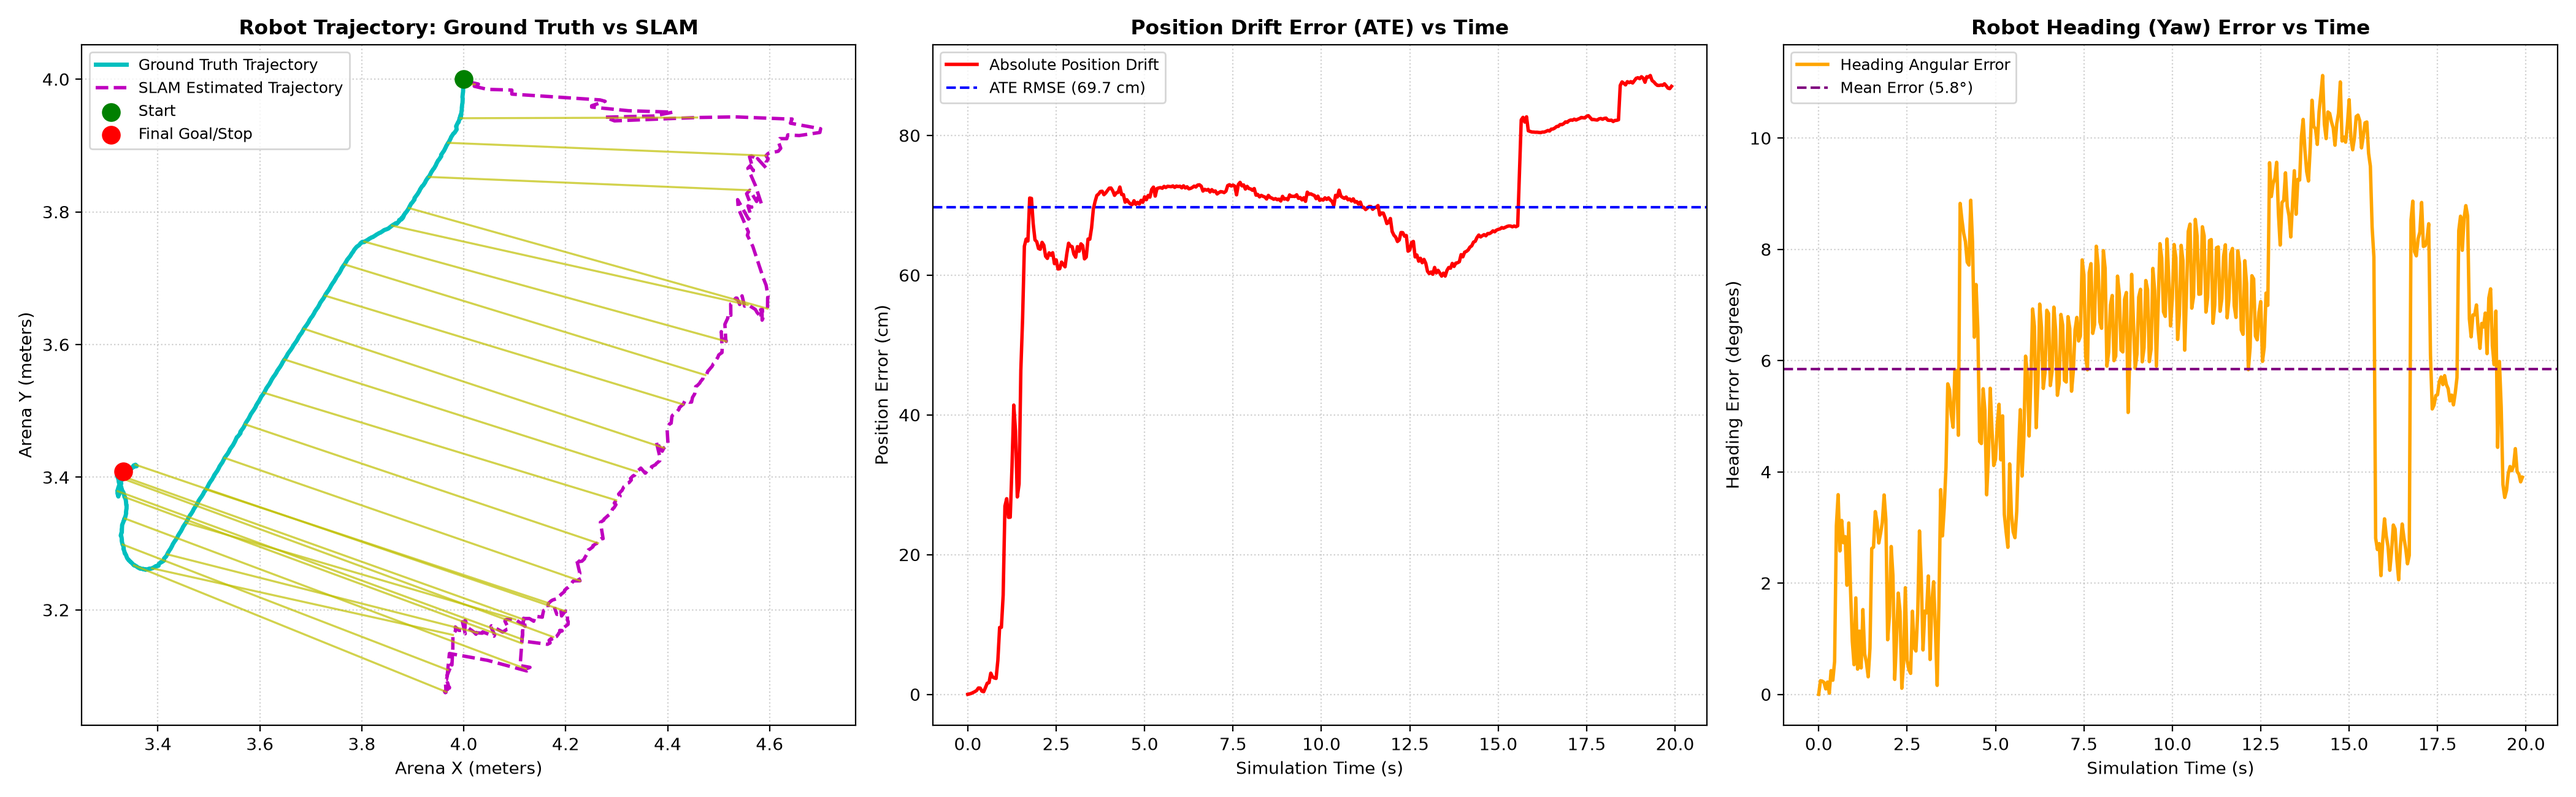
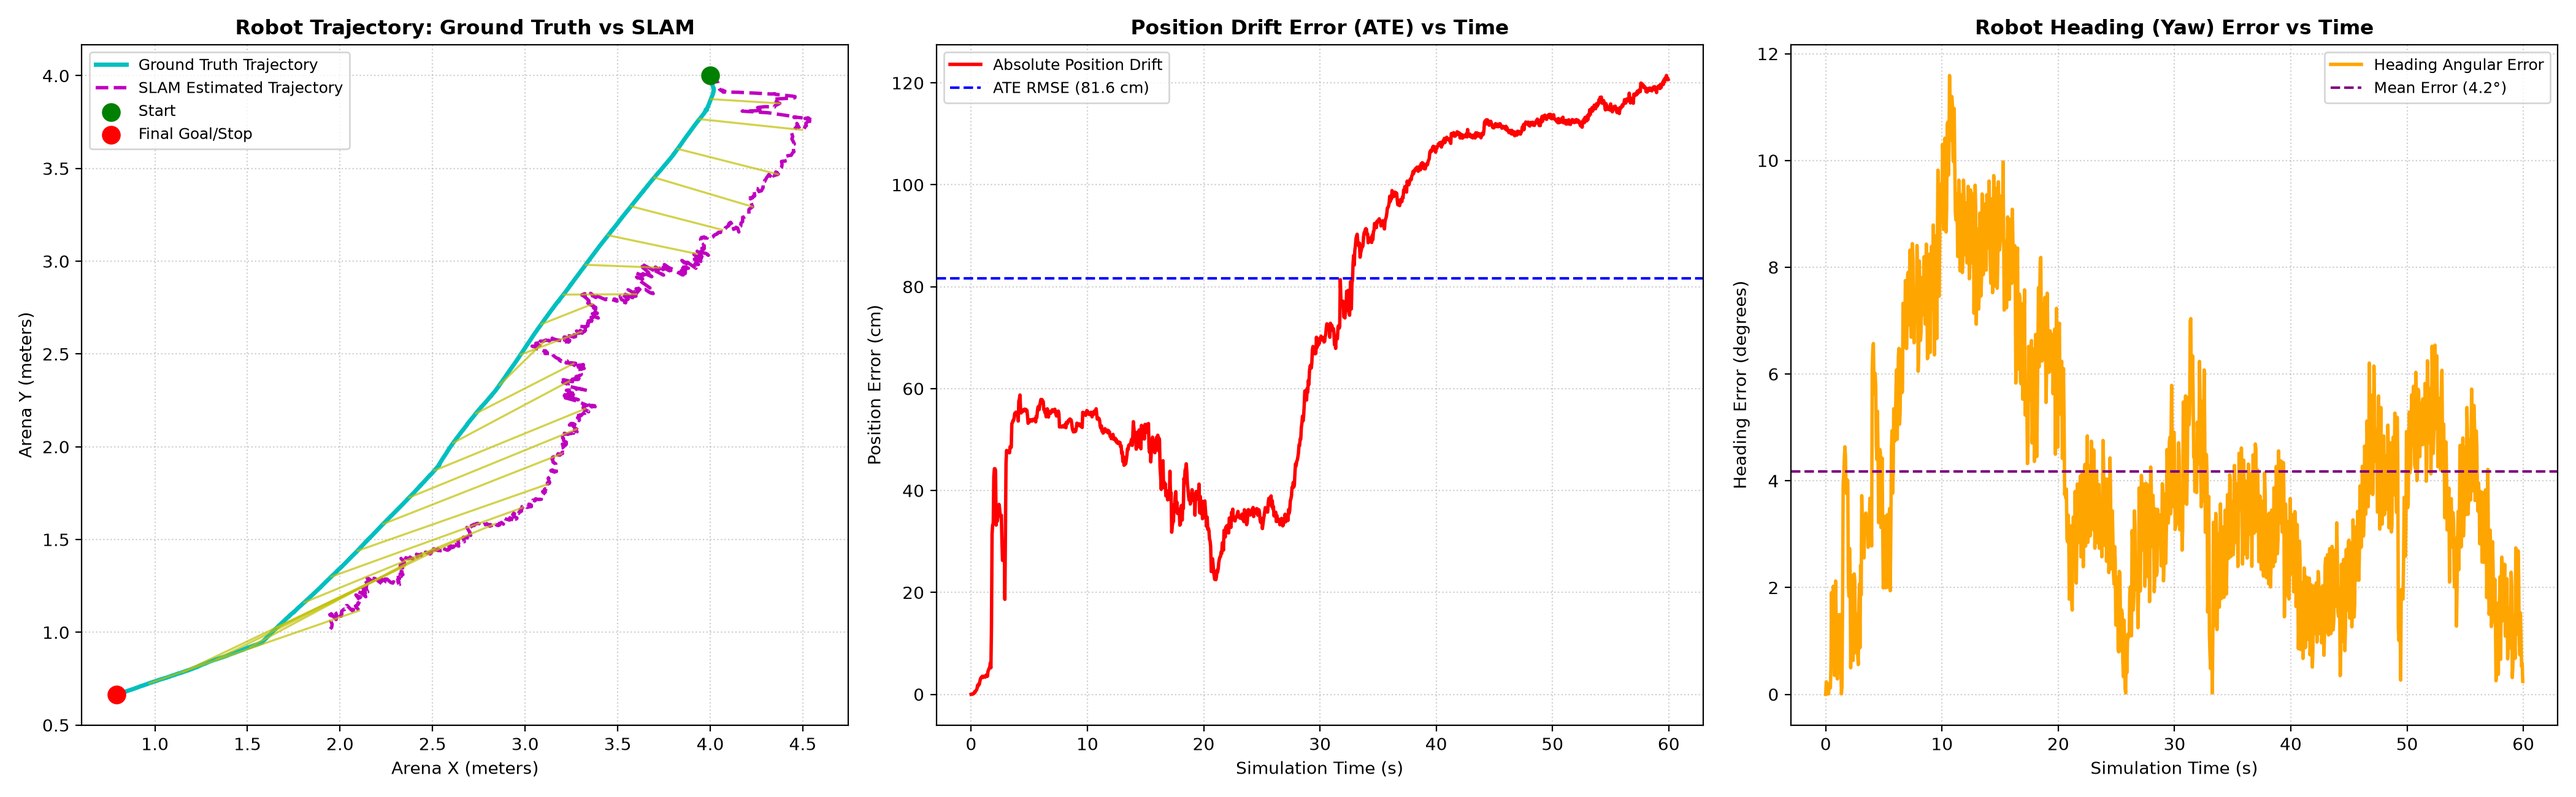
fix(navigation): adaptive room core separation, doorway penetration vector, and live agent telemetry

diff --git a/agents/frontier_agent.py b/agents/frontier_agent.py
@@ -91,10 +91,11 @@ class FrontierAgent(BaseAgent):
         # Check if committed target was reached
         if self.committed_target is not None:
             cwx, cwy = self.grid.grid_to_world(self.committed_target[0], self.committed_target[1])
-            if math.hypot(cwx - rx, cwy - ry) < 0.35:
+            if math.hypot(cwx - rx, cwy - ry) < 0.40:
                 if self.committed_doorway is not None:
                     self.visited_doorways.add(self.committed_doorway)
                     self.committed_doorway = None
+                    print(f"  [FRONTIER] Successfully transited through doorway to ({cwx:.2f}, {cwy:.2f})")
                 else:
                     self.blacklist_frontiers.add(self.committed_target)
                 self.committed_target = None
@@ -105,19 +106,22 @@ class FrontierAgent(BaseAgent):
         if current_detected_room > 0:
             if self.active_room_id <= 0:
                 self.active_room_id = current_detected_room
+                print(f"  [FRONTIER] Initialized in Room {self.active_room_id} -> Starting Intra-Room Sweep")
                 self.bus.publish("mission/event", MissionEventMsg(
                     timestamp=current_time,
                     event_type="ROOM_ENTERED",
                     details={"room_id": self.active_room_id}
                 ))
-            elif current_detected_room != self.active_room_id and self.state in ["INTER_ROOM_TRANSIT", "GLOBAL_EXPLORATION"]:
-                self.explored_rooms.add(self.active_room_id)
+            elif current_detected_room != self.active_room_id and current_detected_room not in self.explored_rooms:
+                if self.active_room_id > 0:
+                    self.explored_rooms.add(self.active_room_id)
                 if self.committed_doorway is not None:
                     self.visited_doorways.add(self.committed_doorway)
                     self.committed_doorway = None
                 self.active_room_id = current_detected_room
                 self.state = "INTRA_ROOM_SWEEP"
                 self.committed_target = None
+                print(f"  [FRONTIER] >>> ENTERED NEW ROOM {self.active_room_id} <<< Commencing INTRA_ROOM_SWEEP!")
                 self.bus.publish("mission/event", MissionEventMsg(
                     timestamp=current_time,
                     event_type="ROOM_ENTERED",
@@ -126,43 +130,53 @@ class FrontierAgent(BaseAgent):
         elif self.active_room_id <= 0:
             self.active_room_id = 1
 
-        # If currently transiting a doorway, maintain commitment until reaching or entering new room
+        # If currently transiting a doorway, maintain commitment until penetrating into the new room
         if self.state == "INTER_ROOM_TRANSIT" and self.committed_target is not None:
             cwx, cwy = self.grid.grid_to_world(self.committed_target[0], self.committed_target[1])
-            if math.hypot(cwx - rx, cwy - ry) >= 0.35:
-                return None
+            if math.hypot(cwx - rx, cwy - ry) >= 0.40:
+                return None  # Unconditionally hold doorway transit trajectory
 
         all_frontiers = self.grid.detect_frontiers()
         if not all_frontiers:
             self.state = "MISSION_COMPLETE"
+            print("  [FRONTIER] All frontiers cleared across entire map! MISSION_COMPLETE.")
             return None
 
-        # 1. Collect valid candidates, respecting blacklist
+        # 1. Collect valid candidates, respecting blacklist and explored rooms
         candidates = []
         for f in all_frontiers:
             gx, gy, area = f
             if (gx, gy) in self.blacklist_frontiers:
                 continue
+            f_room = self._get_room_at(gx, gy, room_labels)
+            if f_room in self.explored_rooms:
+                continue  # Never revisit frontiers in already cleared/explored rooms!
             wx, wy = self.grid.grid_to_world(gx, gy)
             dist = math.hypot(wx - rx, wy - ry)
             candidates.append((f, dist))
 
         if not candidates:
-            # If all frontiers were blacklisted, clear blacklist and re-try
-            if self.blacklist_frontiers:
+            # If all candidates are blacklisted but unvisited doorways exist, proceed to doorway transit
+            doorways = self.latest_grid_msg.doorways if self.latest_grid_msg else []
+            unvisited_doorways = [d for d in doorways if d not in self.visited_doorways]
+            if not unvisited_doorways and self.blacklist_frontiers:
                 self.blacklist_frontiers.clear()
                 for f in all_frontiers:
+                    f_room = self._get_room_at(f[0], f[1], room_labels)
+                    if f_room in self.explored_rooms:
+                        continue
                     wx, wy = self.grid.grid_to_world(f[0], f[1])
                     dist = math.hypot(wx - rx, wy - ry)
                     candidates.append((f, dist))
-            if not candidates:
+            if not candidates and not unvisited_doorways:
                 self.state = "MISSION_COMPLETE"
+                print("  [FRONTIER] All rooms and frontiers explored. MISSION_COMPLETE.")
                 return None
 
         # Filter by min_dist (prefer frontiers > min_dist, but fall back to closer if none exist)
         dist_candidates = [c for c in candidates if c[1] >= self.min_dist]
         if not dist_candidates:
-            dist_candidates = candidates  # Use all available candidates
+            dist_candidates = candidates
 
         # Classify into active room vs other rooms
         room_frontiers = []
@@ -171,14 +185,17 @@ class FrontierAgent(BaseAgent):
             gx, gy, area = f
             f_room = self._get_room_at(gx, gy, room_labels)
 
-            if self.active_room_id > 0 and f_room == self.active_room_id:
+            if f_room in self.explored_rooms:
+                continue
+
+            if self.active_room_id > 0 and self.active_room_id not in self.explored_rooms and f_room == self.active_room_id:
                 room_frontiers.append((f, dist))
             else:
                 other_frontiers.append((f, dist))
 
         # Decision Logic:
         # Case A: Current room still has unexplored frontiers -> Clear it!
-        if room_frontiers:
+        if room_frontiers and self.active_room_id not in self.explored_rooms:
             self.state = "INTRA_ROOM_SWEEP"
             target_frontier = self._score_frontiers(room_frontiers, rx, ry, r_yaw)
             gx, gy, area = target_frontier
@@ -196,6 +213,7 @@ class FrontierAgent(BaseAgent):
                 area=area,
                 is_doorway=False
             )
+            print(f"  [FRONTIER] [INTRA_ROOM_SWEEP] Target: ({wx:.2f}, {wy:.2f}) [Room {self.active_room_id}] | Dist: {math.hypot(wx-rx, wy-ry):.2f}m")
             self.bus.publish("frontier/target", target_msg)
             return target_msg
 
@@ -209,23 +227,36 @@ class FrontierAgent(BaseAgent):
             dw_target = unvisited_doorways[0]
             self.committed_doorway = dw_target
             
-            if self.active_room_id > 0:
+            if self.active_room_id > 0 and self.active_room_id not in self.explored_rooms:
                 self.explored_rooms.add(self.active_room_id)
+                print(f"  [FRONTIER] ★ Room {self.active_room_id} 100% EXPLORED! Marked closed. Gating transit to next room...")
                 self.bus.publish("mission/event", MissionEventMsg(
                     timestamp=current_time,
                     event_type="ROOM_COMPLETED",
                     details={"room_id": self.active_room_id}
                 ))
 
-            dgx, dgy = self.grid.world_to_grid(dw_target[0], dw_target[1])
+            # Compute doorway penetration vector: step 70cm through the doorway into the next room
+            dx = dw_target[0] - rx
+            dy = dw_target[1] - ry
+            d_norm = math.hypot(dx, dy)
+            if d_norm > 0.1:
+                ux, uy = dx / d_norm, dy / d_norm
+                target_wx = dw_target[0] + ux * 0.70
+                target_wy = dw_target[1] + uy * 0.70
+            else:
+                target_wx, target_wy = dw_target[0], dw_target[1]
+
+            dgx, dgy = self.grid.world_to_grid(target_wx, target_wy)
             self.committed_target = (dgx, dgy)
             self.commitment_time = current_time
+            print(f"  [FRONTIER] [INTER_ROOM_TRANSIT] Heading to Doorway ({dw_target[0]:.2f}, {dw_target[1]:.2f}) -> Target inside next room: ({target_wx:.2f}, {target_wy:.2f})")
             target_msg = FrontierTargetMsg(
                 timestamp=current_time,
                 target_gx=dgx,
                 target_gy=dgy,
-                target_wx=dw_target[0],
-                target_wy=dw_target[1],
+                target_wx=target_wx,
+                target_wy=target_wy,
                 room_id=-1,
                 area=50,
                 is_doorway=True
@@ -233,7 +264,7 @@ class FrontierAgent(BaseAgent):
             self.bus.publish("frontier/target", target_msg)
             return target_msg
 
-        # Case C: Global exploration if other frontiers exist
+        # Case C: Global exploration into other frontiers
         if other_frontiers:
             self.state = "GLOBAL_EXPLORATION"
             target_frontier = self._score_frontiers(other_frontiers, rx, ry, r_yaw)
@@ -242,16 +273,18 @@ class FrontierAgent(BaseAgent):
             self.commitment_time = current_time
             wx, wy = self.grid.grid_to_world(gx, gy)
             
+            f_room = self._get_room_at(gx, gy, room_labels)
             target_msg = FrontierTargetMsg(
                 timestamp=current_time,
                 target_gx=gx,
                 target_gy=gy,
                 target_wx=wx,
                 target_wy=wy,
-                room_id=-1,
+                room_id=f_room,
                 area=area,
                 is_doorway=False
             )
+            print(f"  [FRONTIER] [GLOBAL_EXPLORATION] Target: ({wx:.2f}, {wy:.2f}) [Room {f_room}] | Dist: {math.hypot(wx-rx, wy-ry):.2f}m")
             self.bus.publish("frontier/target", target_msg)
             return target_msg
 

diff --git a/agents/mapping_agent.py b/agents/mapping_agent.py
@@ -53,19 +53,26 @@ class MappingAgent(BaseAgent):
         if max_val < 4:  # At least 20cm clearance
             return np.zeros_like(free_mask, dtype=np.int32), []
 
-        # 2. Threshold to get reliable room core regions
-        thresh = 0.45 * max_val
-        sure_fg = (dist_transform >= thresh).astype(np.uint8)
-
-        # 3. Label room marker components and track centroids persistently across updates
-        num_markers, markers, stats, cents = cv2.connectedComponentsWithStats(sure_fg)
-        
+        # 2. Adaptive multi-scale distance transform thresholding to separate distinct room cores
         valid_components = []
-        for i in range(1, num_markers):
-            if stats[i, cv2.CC_STAT_AREA] >= 10:
-                gx, gy = cents[i][0], cents[i][1]
-                wx, wy = self.grid.grid_to_world(int(round(gx)), int(round(gy)))
-                valid_components.append((i, (wx, wy)))
+        markers = np.zeros_like(free_mask, dtype=np.int32)
+        for t_ratio in [0.65, 0.60, 0.56, 0.50, 0.45, 0.40]:
+            thresh = t_ratio * max_val
+            sure_fg = (dist_transform >= thresh).astype(np.uint8)
+            num_markers, cur_markers, stats, cents = cv2.connectedComponentsWithStats(sure_fg)
+            comps = []
+            for i in range(1, num_markers):
+                if stats[i, cv2.CC_STAT_AREA] >= 12:
+                    gx, gy = cents[i][0], cents[i][1]
+                    wx, wy = self.grid.grid_to_world(int(round(gx)), int(round(gy)))
+                    comps.append((i, (wx, wy)))
+            if len(comps) >= 2:
+                valid_components = comps
+                markers = cur_markers
+                break
+            elif len(comps) == 1 and not valid_components:
+                valid_components = comps
+                markers = cur_markers
 
         num_rooms = len(valid_components)
         if num_rooms <= 1:

diff --git a/agents/locomotion_agent.py b/agents/locomotion_agent.py
@@ -117,6 +117,9 @@ class LocomotionAgent(BaseAgent):
                 if avoidance_yaw != 0.0:
                     self.speed = 0.35
                     self.state_str = "AVOID"
+                    if (current_time - getattr(self, 'last_avoid_log_time', 0.0)) > 2.5:
+                        self.last_avoid_log_time = current_time
+                        print(f"  [LOCOMOTION] Proximity safety envelope: Repelling from obstacle cluster (steer bias: {avoidance_yaw:+.2f} rad)")
                 elif abs_err > 0.45:
                     self.speed = 0.45  # Continuous turn-while-walking
                     self.state_str = "TURN"
@@ -138,6 +141,7 @@ class LocomotionAgent(BaseAgent):
                     self.last_stuck_check_time = current_time
 
                 if self.stuck_ticks >= 2:  # Stuck for ~2 seconds
+                    print(f"  [LOCOMOTION] Watchdog detected obstacle stall at ({rx:.2f}, {ry:.2f}) -> Executing reverse recovery step")
                     self.recovery_countdown = 16  # 16 steps (0.8s) of reverse recovery
                     self.stuck_ticks = 0
                     self.waypoints = []

diff --git a/agents/planning_agent.py b/agents/planning_agent.py
@@ -67,6 +67,7 @@ class PlanningAgent(BaseAgent):
         # a_star_search takes (grid, (start_gx, start_gy), (goal_gx, goal_gy)) and returns world waypoints [(x, y), ...]
         world_path = a_star_search(self.grid, (start_gx, start_gy), (goal_gx, goal_gy), smooth=False)
         if not world_path:
+            print(f"  [PLANNER] Target ({self.latest_target.target_wx:.2f}, {self.latest_target.target_wy:.2f}) unreachable! Blacklisting & replanning...")
             self.bus.publish("mission/event", MissionEventMsg(
                 timestamp=current_time,
                 event_type="PATH_UNREACHABLE",
@@ -84,6 +85,8 @@ class PlanningAgent(BaseAgent):
         self.last_replan_time = current_time
         self.replan_count += 1
         self.current_path = world_waypoints
+
+        print(f"  [PLANNER] A* Path computed: {len(world_waypoints)} safe waypoints -> Target ({self.latest_target.target_wx:.2f}, {self.latest_target.target_wy:.2f})")
 
         # Publish planned path
         self.bus.publish("plan/path", PathMsg(

diff --git a/accuracy_results/mission_timeline.md b/accuracy_results/mission_timeline.md
@@ -3,6 +3,9 @@
 | Sim Time | Event Type | Description | Location |
 | :--- | :--- | :--- | :--- |
 | **0.5s** | ROOM_ENTERED | ROOM_ENTERED: {'room_id': 1} | (4.00, 4.00) |
-| **13.0s** | DOORWAY_DETECTED | Topological doorway bottleneck identified at (0.50, -0.10) | (0.50, -0.10) |
-| **17.25s** | ROBOT_STUCK | ROBOT_STUCK: {'x': 3.3234336657487074, 'y': 3.403343748556585} | (3.32, 3.40) |
-| **19.25s** | ROBOT_STUCK | ROBOT_STUCK: {'x': 3.3466417189327817, 'y': 3.4119874981061535} | (3.35, 3.41) |
+| **1.0s** | ROOM_ENTERED | ROOM_ENTERED: {'room_id': 2} | (4.01, 3.96) |
+| **1.0s** | DOORWAY_DETECTED | Topological doorway bottleneck identified at (4.10, 3.60) | (4.10, 3.60) |
+| **4.0s** | DOORWAY_DETECTED | Topological doorway bottleneck identified at (1.90, 1.60) | (1.90, 1.60) |
+| **7.0s** | DOORWAY_DETECTED | Topological doorway bottleneck identified at (1.95, 1.20) | (1.95, 1.20) |
+| **13.0s** | DOORWAY_DETECTED | Topological doorway bottleneck identified at (1.50, 1.20) | (1.50, 1.20) |
+| **33.0s** | ROOM_ENTERED | ROOM_ENTERED: {'room_id': 3} | (2.53, 1.90) |
